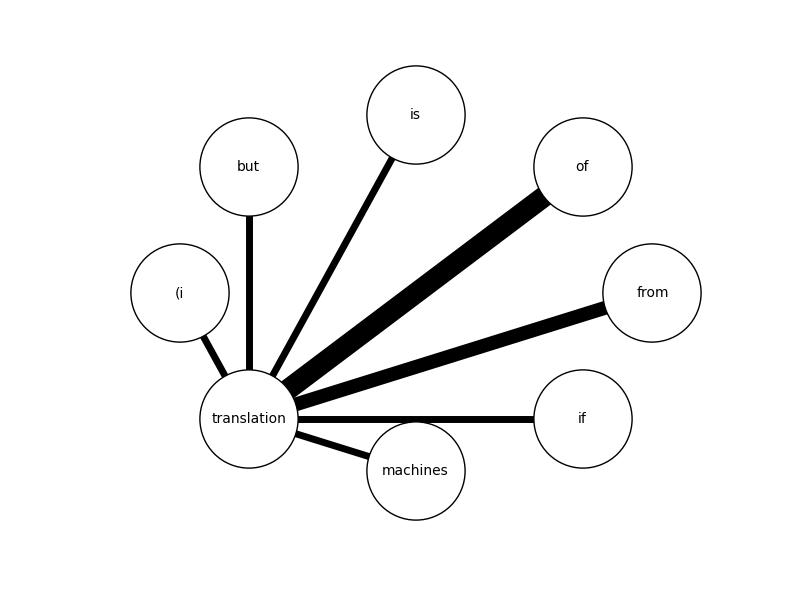
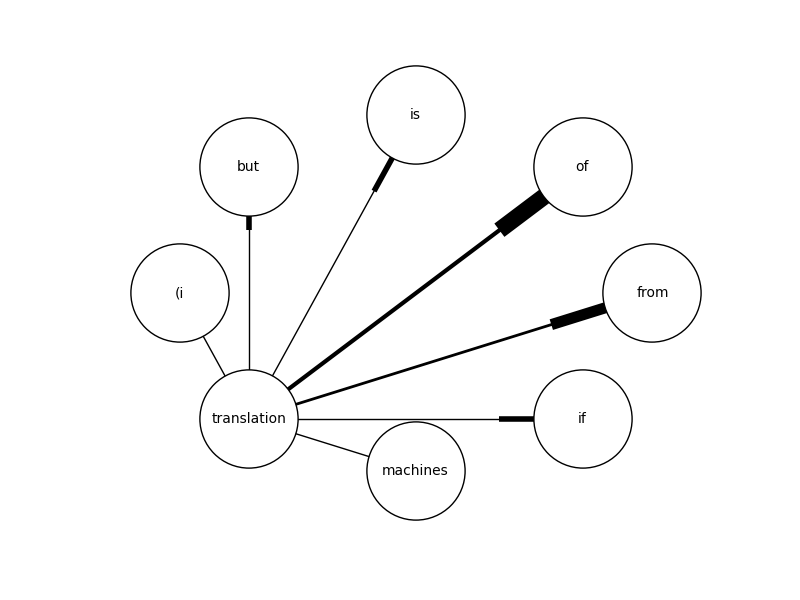
Changes to directed graph

diff --git a/generateReviews.py b/generateReviews.py
@@ -15,10 +15,10 @@ mc.dumpdb()
 
 # a key in the datbase looks like:
 # ('when', 'you') defaultdict(<function _one at 0x7f5c843a4500>, 
-# {'just': 0.06250000000059731, 'feel': 0.06250000000059731, 'had': 0.06250000000059731, 'accidentally': 0.06250000000059731, '"love': 0.06250000000059731, 'read': 0.06250000000059731, 'see': 0.06250000000059731, 'base': 0.06250000000059731, 'know': 0.12499999999641617, 'have': 0.12499999999641617, 'were': 0.06250000000059731, 'come': 0.06250000000059731, "can't": 0.06250000000059731, 'are': 0.06250000000059731})
-# so "just" follows after "when you" with 6% probability
+# {'just': 0.06250000000059731, 'feel': 0.06250000000059731, 'had': 0.06250000000059731, 'accidentally': 0.06250000000059731, ''love': 0.06250000000059731, 'read': 0.06250000000059731, 'see': 0.06250000000059731, 'base': 0.06250000000059731, 'know': 0.12499999999641617, 'have': 0.12499999999641617, 'were': 0.06250000000059731, 'come': 0.06250000000059731, 'can't': 0.06250000000059731, 'are': 0.06250000000059731})
+# so 'just' follows after 'when you' with 6% probability
 
-db = pickle.load(open("./markov_db"))
+db = pickle.load(open('./markov_db'))
 # let's get a good node
 #for key in db:
 #    # has in between 5 and 10 connections
@@ -32,7 +32,7 @@ values = db[good_key]
 
 # create the graph
 
-G = nx.Graph()
+G = nx.DiGraph()
 good_key = str(good_key[0])
 G.add_node(good_key)
 G.add_nodes_from(values.keys())
@@ -44,14 +44,14 @@ for partner in values:
     G.add_weighted_edges_from([ (good_key, partner, edge_weight) ])
 
 pos = nx.circular_layout(G)
-nx.draw_networkx_nodes(G, pos, node_color = "white", node_size = 5000)
+nx.draw_networkx_nodes(G, pos, node_color = 'white', node_size = 5000)
 
-# width of edges is based on probability * 50
+# width of edges is based on probability * 10
 for edge in G.edges(data=True):
-    nx.draw_networkx_edges(G, pos, edgelist = [(edge[0], edge[1])], width = edge[2]['weight']*50)
+    nx.draw_networkx_edges(G, pos, edgelist = [(edge[0], edge[1])], width = edge[2]['weight']*10)
 
 nx.draw_networkx_labels(G, pos, font_size=10, font_family='sans-serif')
-plt.axis("off")
+plt.axis('off')
 plt.tight_layout()
-plt.savefig("Markov_graph.png")
+plt.savefig('Markov_graph.png')
 plt.show()
